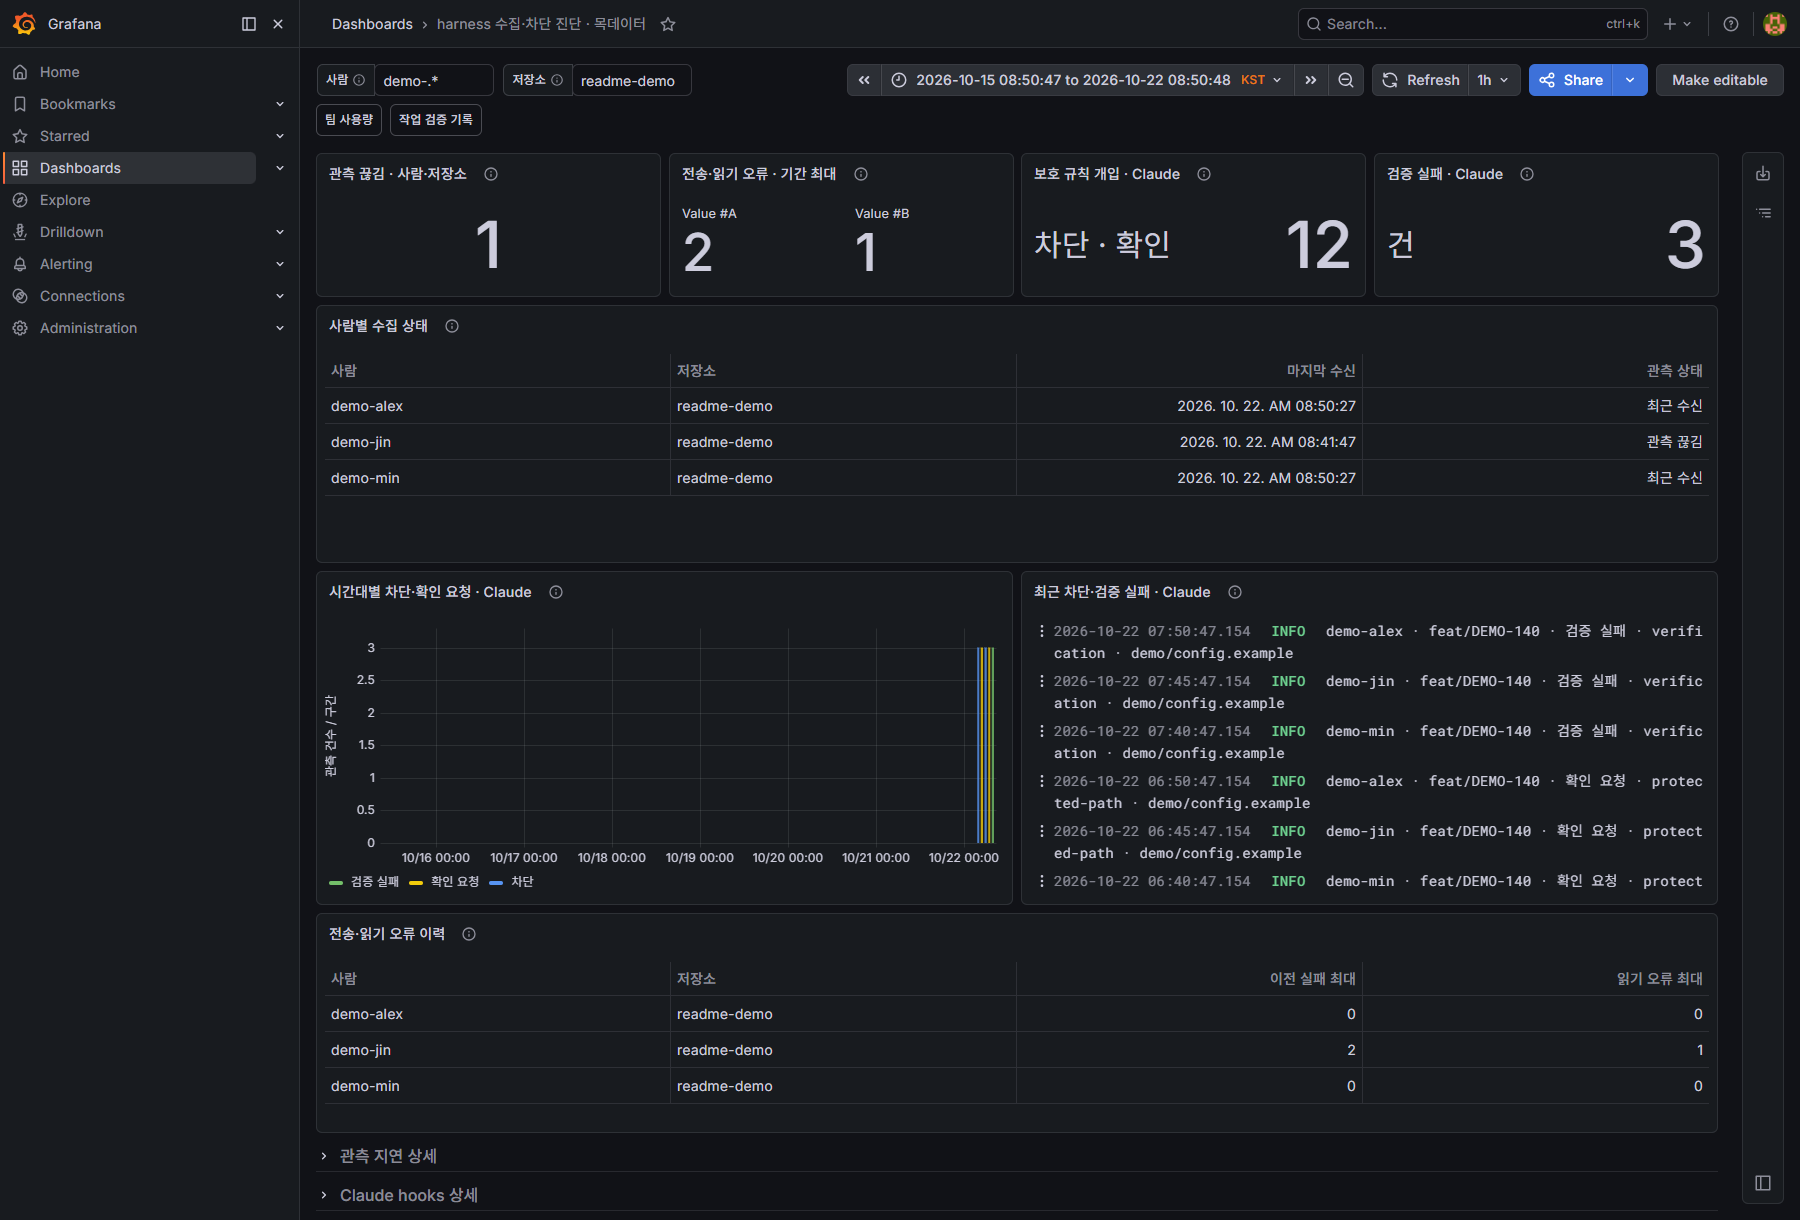
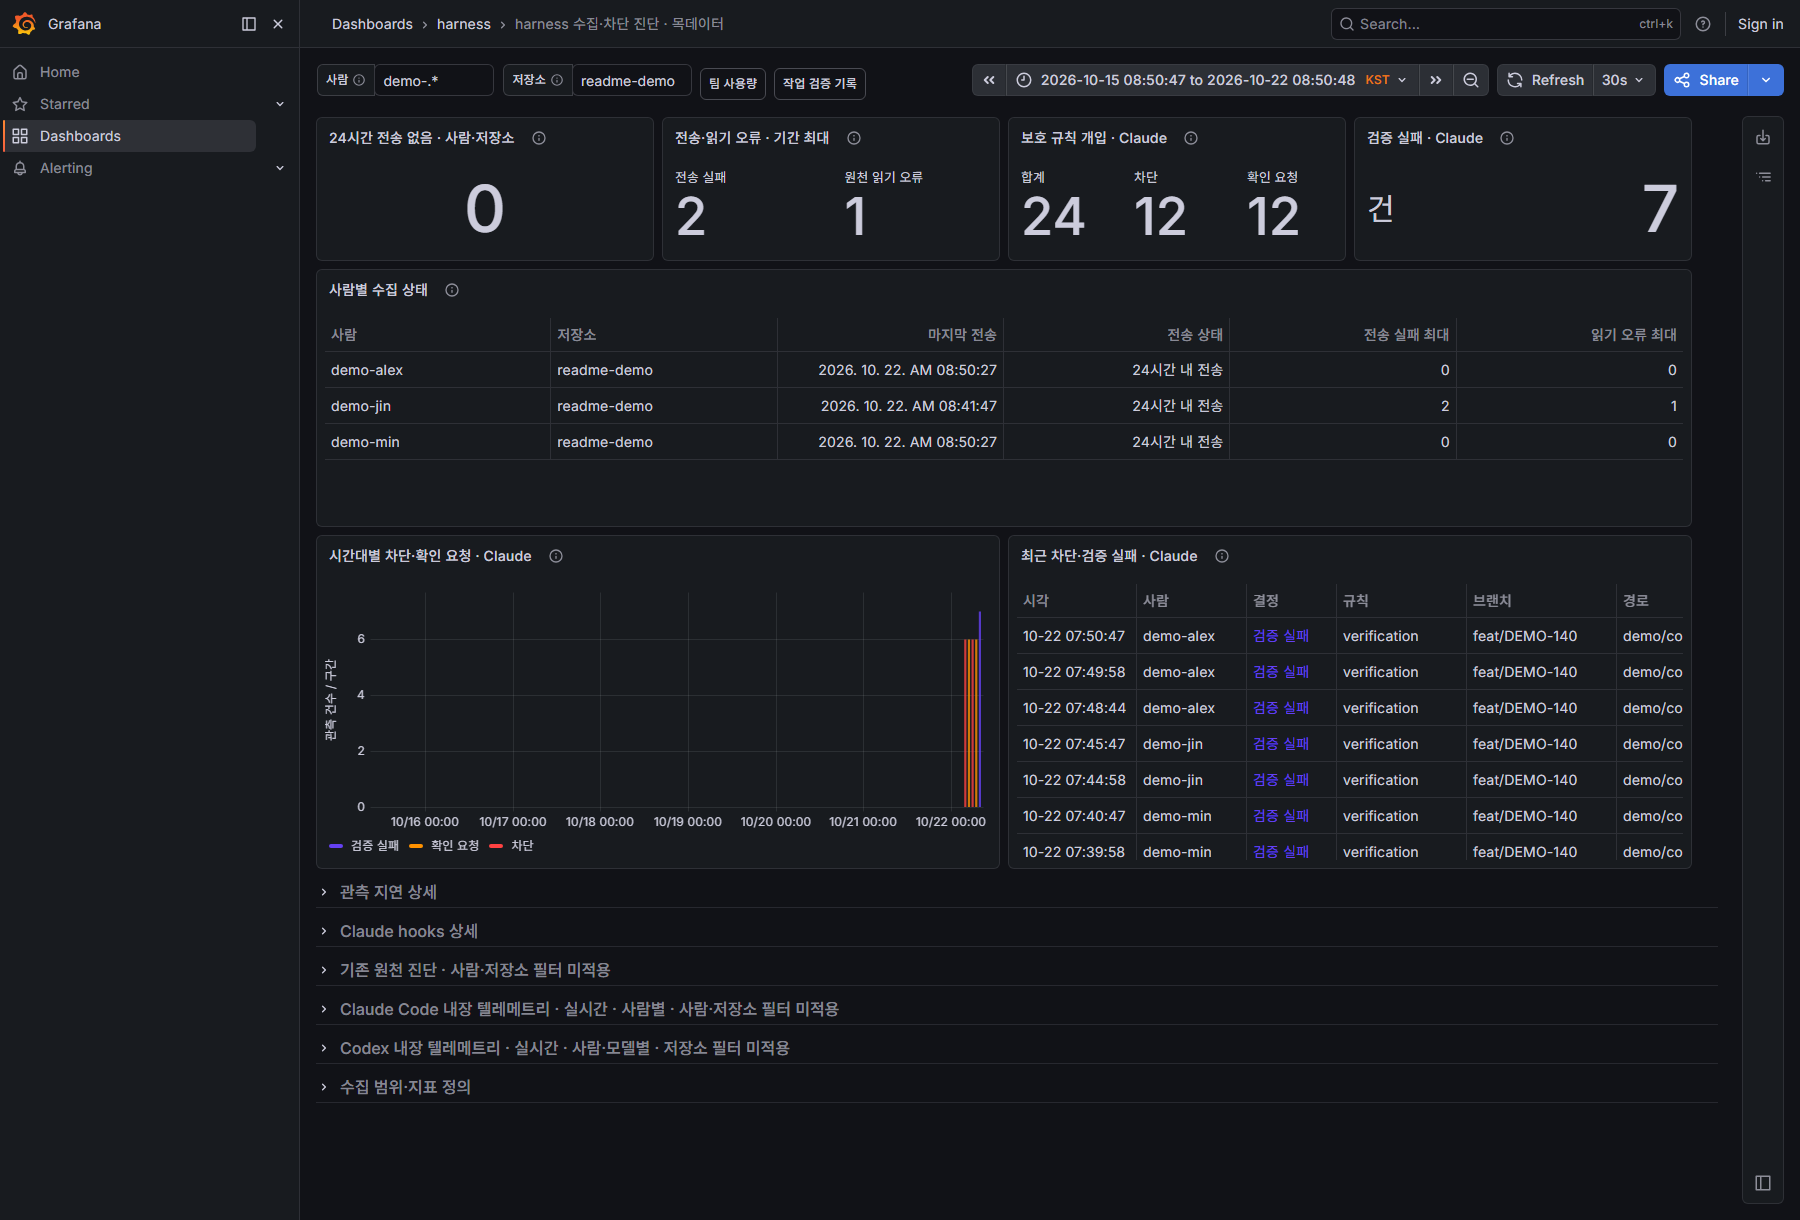
fix(observability): 최근 차단 표의 시각을 줄이고 목데이터 스크린샷을 새로 찍는다 (#156)
- 반 폭 표에서 긴 날짜 형식이 잘리고 경로 열이 밀려나 시각을 MM-DD HH:mm:ss로 줄이고 열 너비를 고정한다.
- 팀 사용량·수집·차단 진단 스크린샷을 #157 대시보드로 다시 찍는다(같은 목데이터·기간).

diff --git a/tests/test_telemetry.py b/tests/test_telemetry.py
@@ -511,6 +511,11 @@ class FragmentConfigTest(unittest.TestCase):
         self.assertIn("label_format who=`{{ if .$person }}", recent["targets"][0]["expr"])
         self.assertNotIn("line_format", recent["targets"][0]["expr"])
         self.assertEqual([t["id"] for t in recent["transformations"]][0], "extractFields")
+        # 반 폭 패널이라 긴 날짜 형식은 잘리고 경로 열이 밀려난다(실제 Grafana 화면 확인).
+        props = {item["matcher"]["options"]: {prop["id"]: prop["value"] for prop in item["properties"]}
+                 for item in recent["fieldConfig"]["overrides"]}
+        self.assertEqual(props["시각"]["unit"], "time:MM-DD HH:mm:ss")
+        self.assertTrue(all("custom.width" in props[name] for name in ("시각", "사람", "결정", "규칙")))
         # Claude Code 내장 텔레메트리 행: Codex 행과 같은 자리에 두고 키트 기록과 더하지 않는다.
         rows = [panel for panel in dashboard["panels"] if panel["type"] == "row"]
         self.assertEqual([row["id"] for row in rows][-3:], [45, 44, 42])

diff --git a/docs/assets/dashboards/README.md b/docs/assets/dashboards/README.md
@@ -1,12 +1,13 @@
 # 대시보드 스크린샷
 
-루트 README에서 사용하는 화면 이미지다. 2026-10-22에 로컬 Grafana에서 목데이터로 촬영했다.
+루트 README에서 사용하는 화면 이미지다. 로컬 Grafana에서 목데이터로 촬영했다. `team-usage.png`·`collection-diagnostics.png`는
+2026-10-26에 #157 대시보드로 다시 찍었고, `task-evidence.png`는 2026-10-22 촬영본이다. 세 화면의 데이터와 기간은 같다.
 운영 서버, 실제 세션 로그, 실제 사용자 기록을 캡처하지 않았다.
 
 | 파일 | 화면 | 데이터 |
 | --- | --- | --- |
 | `team-usage.png` | 공통 수집 v2 팀 사용량 | 7일간 가상 팀원 3명·도구 2종의 토큰, 완료 응답, 예시 가격과 단가 미등록 모델 |
-| `collection-diagnostics.png` | 수집·차단 진단 | 최근 수신·관측 끊김, 전송·읽기 오류, Claude 보호 규칙·종료 검증 사건 |
+| `collection-diagnostics.png` | 수집·차단 진단 | 마지막 전송·24시간 전송 없음과 전송·읽기 오류(한 표), Claude 보호 규칙 개입(합계·차단·확인 요청)·종료 검증 사건 |
 | `task-evidence.png` | 작업 검증 기록 | 예시 작업 3개의 검증 시도·인수 조건·리뷰 사건 |
 
 - 저장소 필터는 `readme-demo`, 사람 필터는 `demo-.*`로 고정했다.
